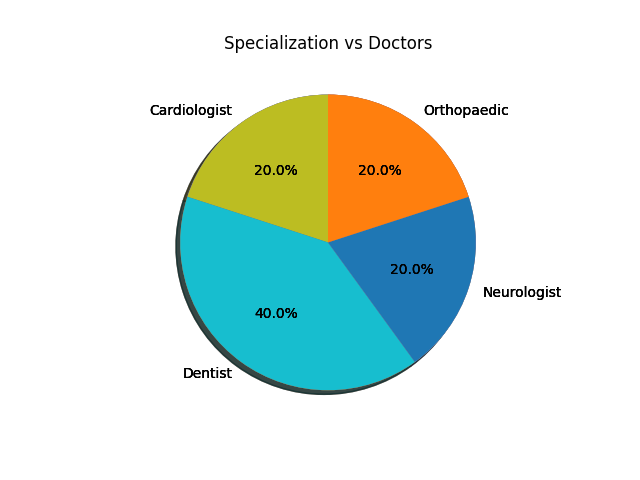
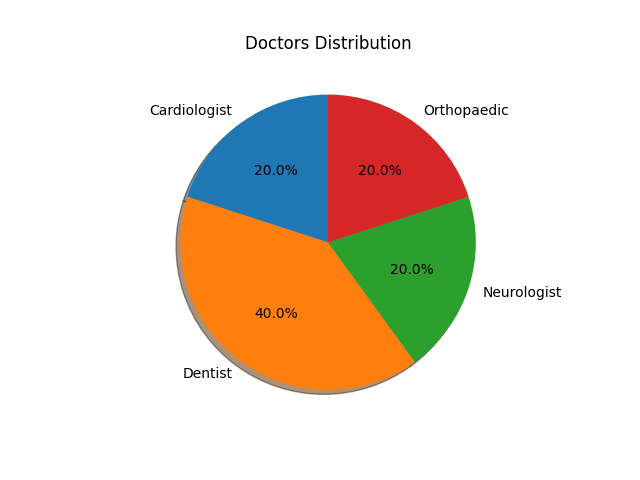
graph fix and removed unnessary imports

Changed region(s): [[0.2188, 0.1875, 0.875, 0.8438], [0.3438, 0.0625, 0.6875, 0.125]]

diff --git a/docbook/templates/index.html b/docbook/templates/index.html
@@ -62,8 +62,7 @@
 				incididunt ut labore et dolore magna aliqua.</p>
 		</div>
         <div>
-            <img src="" alt="">
-            <div style="text-align: center"><img src="/media/doctors/specialization_graph/doctorspecialization.png" width="30%"></div>
+            <div style="text-align: center"><img src="/media/doctors/specialization_graph/doctorspecialization.png" width="40%"></div>
         </div>
 		<div class="row justify-content-center">
 			<div class="col-md-9">

diff --git a/docbook/doctor/views.py b/docbook/doctor/views.py
@@ -4,8 +4,6 @@ from django.views.generic import View
 from django.contrib.auth.models import Group
 from django.core.files.storage import FileSystemStorage
 from django.db.models import Count
-import matplotlib.ticker as ticker
-import base64
 import numpy as np1
 import matplotlib.pyplot as plt
 from django.http.response import HttpResponse
@@ -16,10 +14,8 @@ from django.views.generic.edit import CreateView
 from .forms import *
 from .models import *
 from appointments.models import *
-from io import BytesIO
 import matplotlib
 matplotlib.use('Agg')
-
 # To render homepage
 
 
@@ -201,9 +197,29 @@ class DoctorPublicProfile(View):
     def get(self, *args, **kwargs):
         doctor_row = DocProfile.objects.get(UserID=kwargs['UserID'])
         context = {
-            "doctorGrpah": generateDoctorAppointmentGraph(doctor_row),
+            "doctorGrpah": DoctorPublicProfile.generateDoctorAppointmentGraph(doctor_row),
             "doctor_details": doctor_row}
         return(TemplateResponse(self.request, self.template_name, context))
+
+    @classmethod
+    def generateDoctorAppointmentGraph(cls, docUser):
+        res = Appointments.objects.filter(DoctorUser=docUser).values('Status').annotate(scount=Count('Status')).order_by('Status')
+        app_count = []
+        sts_list = []
+        for i, c in enumerate(res):
+            app_count.append(c['scount'])
+            sts_list.append(c['Status'])
+
+        x = np1.array(sts_list)
+        y = np1.array(app_count)
+        plt.clf()
+        plt.locator_params(axis="y", integer=True, tight=True)
+        plt.bar(x, y, color='#272b41', width=.5)
+        plt.xlabel("Status")
+        plt.ylabel("Appointments")
+        plt.title("Appointments vs Status")
+        filename = 'media/doctors/graphs/' + docUser.name + '.png'
+        plt.savefig(filename)
     
     
 class GetDoctorListing(View):
@@ -224,30 +240,3 @@ class GetDoctorListing(View):
         context['doctor_list'] = DocProfile.objects.filter(**filterQuery)
 
         return render(self.request, "doctor/doctor-list.html", context)
-
-def generateDoctorAppointmentGraph(docUser):
-        res = Appointments.objects.filter(DoctorUser=docUser).values('Status').annotate(scount=Count('Status')).order_by('Status')
-        app_count = []
-        sts_list = []
-        for i, c in enumerate(res):
-            app_count.append(c['scount'])
-            sts_list.append(c['Status'])
-
-        x = np1.array(sts_list)
-        y = np1.array(app_count)
-        print(x)
-        print(y)
-
-        plt.locator_params(axis="y", integer=True, tight=True)
-
-        plt.bar(x, y, color='#272b41', width=.5)
-        plt.xlabel("Status")
-        plt.ylabel("Appointments")
-        plt.title("Appointments vs Status")
-
-        buffer = BytesIO()
-        filename = 'media/doctors/graphs/' + docUser.name + '.png'
-        plt.savefig(filename)
-        b64 = base64.b64encode(buffer.getvalue()).decode()
-        buffer.close()
-        return b64

diff --git a/docbook/core/views.py b/docbook/core/views.py
@@ -6,12 +6,9 @@ from django.contrib import messages
 from django.views import View
 from django.shortcuts import redirect, render
 from django.db.models import Count
-import matplotlib.ticker as ticker
-import base64
 import numpy as np
 import matplotlib.pyplot as plt1
 from doctor.models import *
-from io import BytesIO
 import matplotlib
 matplotlib.use('Agg')
 
@@ -22,39 +19,26 @@ class HomepageView(TemplateView):
         context = super().get_context_data(**kwargs)
         context['locations'] = Location.objects.all()
         context['specializations'] = Specialization.objects.all()
-        context["doctorGrpah"] =  doctorSpecializationLocation()
+        context["doctorGrpah"] =  HomepageView.doctorSpecializationLocation()
         return context
     
-def doctorSpecializationLocation():
-    docres = DocProfile.objects.values('specialization').order_by('specialization').annotate(count=Count('specialization'))
-    spec_count = []
-    doc_list = []
-    print(docres)
-    for i, d in enumerate(docres):
-        doc_list.append(d['count'])
-        spec_count.append(d['specialization'])
-  
-    labels = np.array(spec_count)
-    sizes = np.array(doc_list)
-    explode = (0, 0, 0, 0) 
+    @classmethod
+    def doctorSpecializationLocation(cls):
+        docres = DocProfile.objects.values('specialization').order_by('specialization').annotate(count=Count('specialization'))
+        spec_count = []
+        doc_list = []
+        for i, d in enumerate(docres):
+            doc_list.append(d['count'])
+            spec_count.append(d['specialization'])
     
-    print(labels)
-    print(sizes)
-
-    # plt1.locator_params(axis="y", integer=True, tight=True)
-   
-    plt1.pie(sizes, explode=explode, labels=labels,autopct='%1.1f%%',shadow=True, startangle=90)
-    
-    # plt1.xlabel("specialization")
-    # plt1.ylabel("Number of Doctors")
-    plt1.title("Specialization vs Doctors")
-  
-    docbuffer = BytesIO()
-    docfilename = 'media/doctors/specialization_graph/' + 'doctorspecialization' + '.png'
-    plt1.savefig(docfilename)
-    docb64 = base64.b64encode(docbuffer.getvalue()).decode()
-    docbuffer.close()
-    return docb64
+        labels = np.array(spec_count)
+        sizes = np.array(doc_list)
+        explode = (0, 0, 0, 0) 
+        plt1.clf()
+        plt1.pie(sizes, explode=explode, labels=labels,shadow=True, startangle=90, autopct='%1.1f%%')
+        plt1.title("Doctors Distribution")
+        docfilename = 'media/doctors/specialization_graph/' + 'doctorspecialization' + '.png'
+        plt1.savefig(docfilename)
 
 
 class AboutPage(TemplateView):
